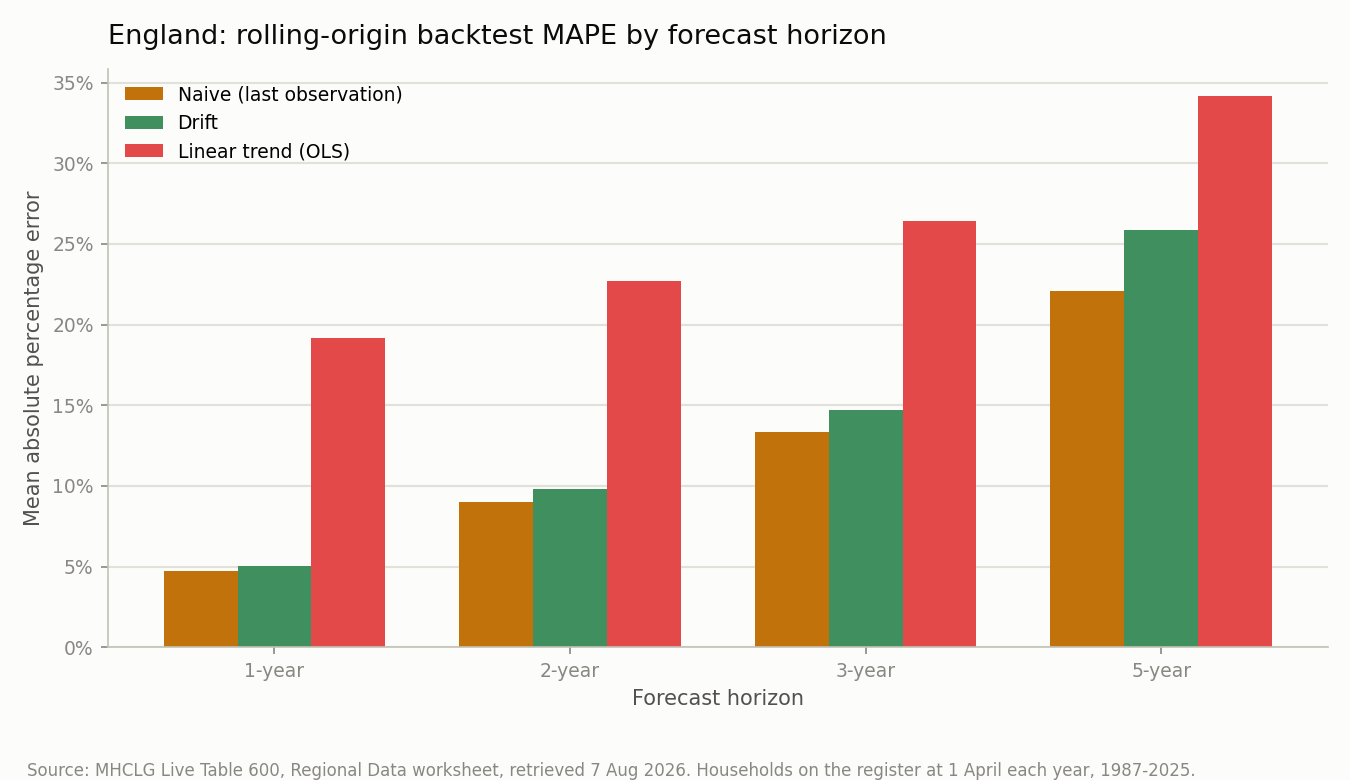
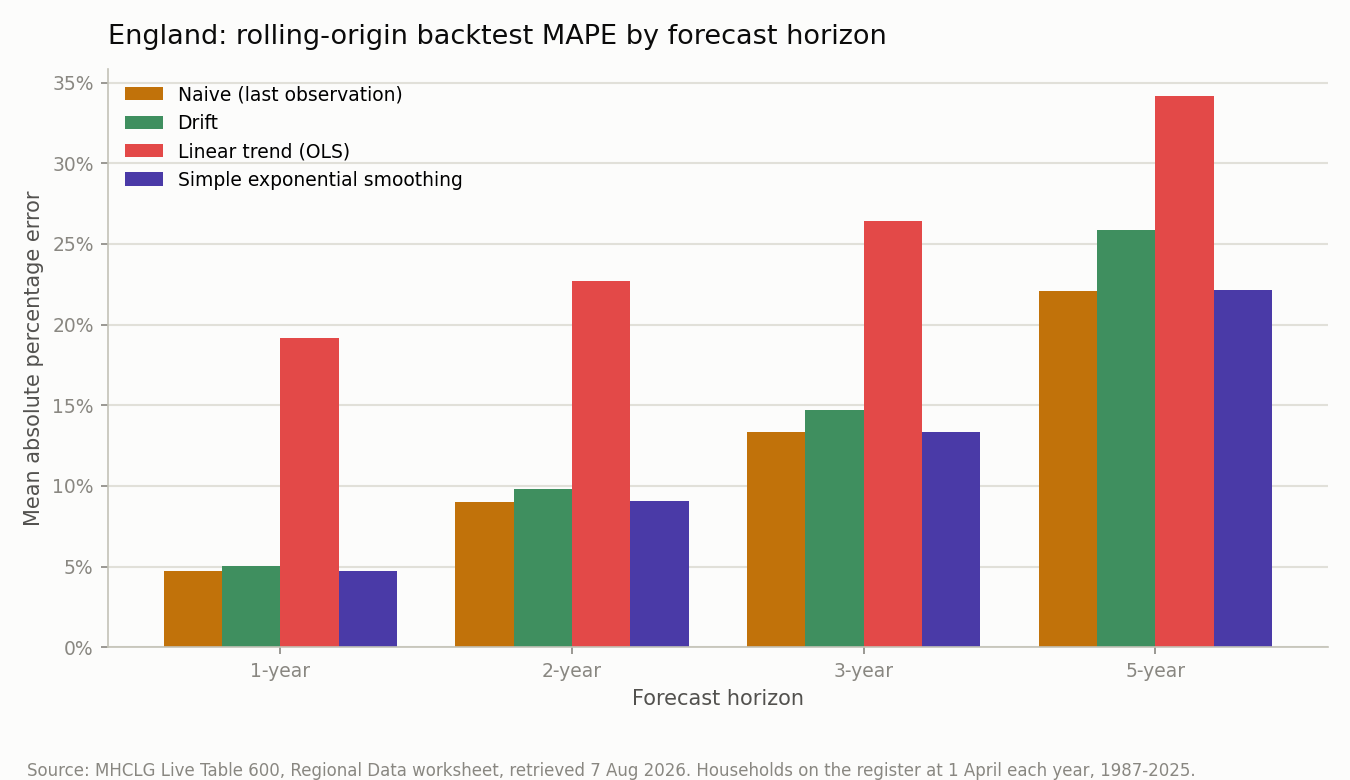
Add simple exponential smoothing as a fourth backtested benchmark
Extends the national backtest harness with a dependency-light SES model
(alpha grid-searched on in-sample SSE, no leakage). SES ties naive for best
1-year MAPE (4.75% vs 4.71%) but its optimal alpha hits the search grid
boundary (0.99) at every origin, meaning it degenerates to near-naive on
this trend-heavy series - documented as a limitation and a pointer toward
trend-aware smoothing (e.g. Holt's method) as the next comparison.

diff --git a/scripts/forecast_national.py b/scripts/forecast_national.py
@@ -2,7 +2,7 @@
 """Week 2 national forecasting & rolling-origin backtesting for MHCLG Live Table 600.
 
 Loads the validated England-total series (Area code E92000001) from
-data/processed/regional_waiting_lists_long.csv, fits three dependency-light
+data/processed/regional_waiting_lists_long.csv, fits four dependency-light
 benchmark forecasting models, evaluates them with leakage-free rolling-origin
 ("walk-forward") backtesting at 1/2/3/5-year horizons, writes result CSVs to
 outputs/, and produces two comparison charts under outputs/figures/.
@@ -13,6 +13,9 @@ Models (all pure Python, no third-party forecasting libraries):
                  (Hyndman & Athanasopoulos's drift method).
   - linear_trend: ordinary-least-squares straight line fit to the training
                  window, extrapolated h years beyond the origin.
+  - ses        : simple exponential smoothing; forecast is flat at the
+                 fitted level, with alpha grid-searched (0.01-0.99) to
+                 minimise in-sample SSE on the training window only.
 
 Backtesting design (see docs/national_forecast_methodology.md for the full
 rationale):
@@ -74,16 +77,19 @@ BLUE = "#2a78d6"     # actual series / categorical slot 1
 ORANGE = "#c1720a"   # naive / categorical slot 2
 GREEN = "#3f8f5f"    # drift / categorical slot 3
 RED = "#e34948"      # linear_trend / diverging pole
+VIOLET = "#4a3aa7"   # ses / categorical slot 7
 
 MODEL_COLORS = {
     "naive": ORANGE,
     "drift": GREEN,
     "linear_trend": RED,
+    "ses": VIOLET,
 }
 MODEL_LABELS = {
     "naive": "Naive (last observation)",
     "drift": "Drift",
     "linear_trend": "Linear trend (OLS)",
+    "ses": "Simple exponential smoothing",
 }
 
 
@@ -147,10 +153,47 @@ def linear_trend_forecast(train_years, train_values, horizons):
     return {h: intercept + slope * (origin_year + h) for h in horizons}
 
 
+def ses_level(train_values, alpha):
+    """Run simple exponential smoothing over train_values; return the final level."""
+    level = train_values[0]
+    for y in train_values[1:]:
+        level = alpha * y + (1 - alpha) * level
+    return level
+
+
+def ses_in_sample_sse(train_values, alpha):
+    """One-step-ahead in-sample SSE for a given alpha (training data only)."""
+    level = train_values[0]
+    sse = 0.0
+    for y in train_values[1:]:
+        sse += (y - level) ** 2
+        level = alpha * y + (1 - alpha) * level
+    return sse
+
+
+def ses_forecast(train_years, train_values, horizons):
+    """Simple exponential smoothing; forecast is flat at the fitted level (no trend term).
+
+    alpha is chosen by grid search (0.01-0.99, step 0.01) minimising one-step-ahead
+    in-sample SSE on the training window only - no future/test data is used, so this
+    selection step does not introduce leakage.
+    """
+    best_alpha, best_sse = 0.5, float("inf")
+    for i in range(1, 100):
+        alpha = i / 100
+        sse = ses_in_sample_sse(train_values, alpha)
+        if sse < best_sse:
+            best_sse = sse
+            best_alpha = alpha
+    level = ses_level(train_values, best_alpha)
+    return {h: level for h in horizons}
+
+
 MODELS = {
     "naive": naive_forecast,
     "drift": drift_forecast,
     "linear_trend": linear_trend_forecast,
+    "ses": ses_forecast,
 }
 
 
@@ -329,15 +372,17 @@ def make_mape_by_horizon_chart(summary):
     style_axes(ax)
 
     model_names = list(MODELS)
+    n_models = len(model_names)
     x = list(range(len(HORIZONS)))
-    width = 0.25
+    width = 0.8 / n_models
+    center = (n_models - 1) / 2
 
     for i, model_name in enumerate(model_names):
         mapes = []
         for h in HORIZONS:
             match = [s for s in summary if s["model"] == model_name and s["horizon_years"] == h]
             mapes.append(match[0]["mape_pct"] if match else 0)
-        offsets = [xi + (i - 1) * width for xi in x]
+        offsets = [xi + (i - center) * width for xi in x]
         ax.bar(offsets, mapes, width=width, color=MODEL_COLORS[model_name], label=MODEL_LABELS[model_name], zorder=2)
 
     ax.set_xticks(x)

diff --git a/docs/national_forecast_methodology.md b/docs/national_forecast_methodology.md
@@ -9,7 +9,7 @@
 
 **Outputs:**
 - `outputs/model_results.csv` — MAE / RMSE / MAPE / mean-error bias per model per horizon (the headline results table).
-- `outputs/backtest_predictions.csv` — every individual backtest forecast (327 rows: model x origin x horizon), for transparency and re-analysis.
+- `outputs/backtest_predictions.csv` — every individual backtest forecast (436 rows: model x origin x horizon), for transparency and re-analysis.
 - `outputs/national_forecast_2026_2030.csv` — illustrative 2026-2030 forecast from each model fit on the full 1987-2025 series (not itself backtested — see Limitations).
 - `outputs/figures/backtest_one_step_ahead.png` — actual series vs. each model's 1-year-ahead rolling-origin forecast.
 - `outputs/figures/backtest_mape_by_horizon.png` — MAPE by model, grouped by horizon.
@@ -18,15 +18,16 @@
 
 ### 1.1 Models
 
-Three dependency-light benchmarks, all pure Python (no forecasting libraries):
+Four dependency-light benchmarks, all pure Python (no forecasting libraries):
 
 | Model | Definition |
 | --- | --- |
 | `naive` | Forecast = last observed value, held flat for every horizon. |
 | `drift` | Forecast = last value + h x average historical slope, where the slope is `(last value - first value) / (n - 1)` over the training window (Hyndman & Athanasopoulos's drift method). |
 | `linear_trend` | Ordinary-least-squares straight line fit to `households_on_register` against calendar year over the training window, extrapolated h years past the origin. |
+| `ses` | Simple exponential smoothing: forecast is flat at the fitted level (no trend term). The smoothing parameter alpha is chosen per origin by a grid search (0.01-0.99, step 0.01) minimising one-step-ahead in-sample SSE on the training window only — no test/future data is used in this selection, so it does not introduce leakage. |
 
-These were chosen because the task scope required dependency-light benchmarks before any additional package could be requested; all three are standard textbook baselines that any more sophisticated model (ARIMA, exponential smoothing, etc.) should be expected to beat before being adopted.
+`naive`, `drift`, and `linear_trend` were the three benchmarks required before any additional package could be requested (session scope). `ses` was added afterwards as a fourth benchmark, still with no third-party dependency, following on from this note's original recommendation to test a statistical smoothing method against the same backtest harness before considering a package-dependent model (ARIMA, Holt-Winters, etc.).
 
 ### 1.2 Rolling-origin backtesting design
 
@@ -54,36 +55,41 @@ From `outputs/model_results.csv`:
 | naive | 1y | 29 | 64,900 | 94,773 | 4.71% | -9,598 |
 | drift | 1y | 29 | 68,236 | 98,010 | 5.03% | -9,187 |
 | linear_trend | 1y | 29 | 259,259 | 303,462 | 19.16% | +933 |
+| ses | 1y | 29 | 65,415 | 95,417 | 4.75% | -9,683 |
 | naive | 2y | 28 | 125,174 | 176,067 | 9.03% | -20,975 |
 | drift | 2y | 28 | 133,089 | 187,093 | 9.82% | -20,202 |
 | linear_trend | 2y | 28 | 309,472 | 357,324 | 22.71% | -10,452 |
+| ses | 2y | 28 | 125,607 | 176,609 | 9.06% | -21,046 |
 | naive | 3y | 27 | 183,588 | 247,374 | 13.32% | -31,658 |
 | drift | 3y | 27 | 197,251 | 269,958 | 14.71% | -30,450 |
 | linear_trend | 3y | 27 | 362,839 | 412,748 | 26.41% | -23,251 |
+| ses | 3y | 27 | 184,108 | 247,833 | 13.36% | -31,705 |
 | naive | 5y | 25 | 306,435 | 371,023 | 22.10% | -47,200 |
 | drift | 5y | 25 | 352,355 | 427,036 | 25.89% | -43,989 |
 | linear_trend | 5y | 25 | 477,815 | 524,069 | 34.16% | -53,558 |
+| ses | 5y | 25 | 306,809 | 371,382 | 22.12% | -47,220 |
 
 **Headline findings:**
 
-1. **Naive beats drift beats linear trend, at every single horizon.** This holds on MAE, RMSE and MAPE without exception. The margin between naive and drift is small (naive's MAPE is 0.3-3.8 percentage points lower); the margin between either of those and linear trend is large (linear trend's MAPE is 3-4x naive's at every horizon).
-2. **The linear-trend model is a poor fit for this series and should not be used as-is.** England's waiting-list count is not a monotonic trend — it traces two broad cycles (fall to a 1998 trough, rise to a 2012 peak, fall to a ~2018 trough, renewed rise to 2025; see `docs/initial_eda_findings.md`). A straight line fit to an expanding window systematically lags each turning point, which is visible directly in `outputs/figures/backtest_one_step_ahead.png` — the red linear-trend line is still climbing years after the actual series has turned down, and vice versa.
-3. **Naive and drift are close because the series' average historical drift is close to flat.** Over the full 1987-2025 window the endpoints are similar (1,289,492 to 1,340,527, +4.0%), so the drift model's slope term is small and it behaves similarly to a flat carry-forward; this would not necessarily hold if evaluated from a different pair of endpoints.
-4. **All models degrade sharply as horizon lengthens**, as expected: naive's MAPE rises from 4.7% (1-year) to 22.1% (5-year). This is a real property of the series' volatility (year-on-year swings of up to +16.1%/-18.8% are documented in `docs/initial_eda_findings.md`), not an artefact of the backtest design.
-5. **All three models are negatively biased (under-forecast) at every horizon except linear-trend's near-zero 1-year bias**, consistent with the series' strong renewed growth since 2020 outpacing what a model trained mostly on earlier, flatter or falling periods would expect.
+1. **Naive and SES are essentially tied for best model, both clearly ahead of drift, and all three well ahead of linear trend, at every single horizon.** This holds on MAE, RMSE and MAPE without exception. Naive edges out SES by only 0.02-0.04 MAPE percentage points at every horizon; the gap to drift is larger (0.3-3.8 points), and the gap to linear trend is large throughout (3-4x naive's MAPE at every horizon).
+2. **SES converges to an alpha of 0.99 — the edge of the search grid — at every single one of the 30 backtest origins.** This means the in-sample-SSE-optimal smoothing parameter is pushed as high as the grid allows, so SES's fitted level tracks almost the entire weight onto the most recent observation, which is why its forecasts and errors are nearly indistinguishable from naive's (visible in `outputs/figures/backtest_one_step_ahead.png`, where the violet SES line sits almost exactly on top of the orange naive line throughout). This is a real property of the series, not a bug: because the series exhibits strong persistence with large trend-driven swings rather than noise around a stable level, there is no interior alpha that smooths away meaningful noise without also lagging genuine level shifts, so the optimiser keeps pushing toward alpha=1 (pure naive). A plain SES with no trend term is not well suited to this series; a trend-aware variant (e.g. Holt's linear method) would be a more informative next comparison but was out of scope for this dependency-light pass.
+3. **The linear-trend model is a poor fit for this series and should not be used as-is.** England's waiting-list count is not a monotonic trend — it traces two broad cycles (fall to a 1998 trough, rise to a 2012 peak, fall to a ~2018 trough, renewed rise to 2025; see `docs/initial_eda_findings.md`). A straight line fit to an expanding window systematically lags each turning point, which is visible directly in `outputs/figures/backtest_one_step_ahead.png` — the red linear-trend line is still climbing years after the actual series has turned down, and vice versa.
+4. **Naive and drift are close because the series' average historical drift is close to flat.** Over the full 1987-2025 window the endpoints are similar (1,289,492 to 1,340,527, +4.0%), so the drift model's slope term is small and it behaves similarly to a flat carry-forward; this would not necessarily hold if evaluated from a different pair of endpoints.
+5. **All models degrade sharply as horizon lengthens**, as expected: naive's MAPE rises from 4.7% (1-year) to 22.1% (5-year). This is a real property of the series' volatility (year-on-year swings of up to +16.1%/-18.8% are documented in `docs/initial_eda_findings.md`), not an artefact of the backtest design.
+6. **All four models are negatively biased (under-forecast) at every horizon except linear-trend's near-zero 1-year bias**, consistent with the series' strong renewed growth since 2020 outpacing what a model trained mostly on earlier, flatter or falling periods would expect.
 
 See `outputs/figures/backtest_one_step_ahead.png` for the visual comparison and `outputs/figures/backtest_mape_by_horizon.png` for the MAPE-by-horizon summary.
 
 ## 3. Illustrative 2026-2030 forecast
 
-`outputs/national_forecast_2026_2030.csv` fits each model on the **full** 1987-2025 series (not backtested) and extrapolates. This is included as a direct, natural output of "create a national forecasting script," not as a validated prediction — given naive/drift's ~5% 1-year and ~22-26% 5-year MAPE in backtesting, and linear-trend's much larger errors, any of these forecasts should be treated as a wide-uncertainty benchmark rather than a point estimate to plan against. In particular, linear-trend's 2026-2030 path (rising from ~1.41m to ~1.43m) should be read with the caveat in Finding 2 above.
+`outputs/national_forecast_2026_2030.csv` fits each model on the **full** 1987-2025 series (not backtested) and extrapolates. This is included as a direct, natural output of "create a national forecasting script," not as a validated prediction — given naive/SES's ~5% 1-year and ~22% 5-year MAPE in backtesting, and drift's and linear-trend's larger errors, any of these forecasts should be treated as a wide-uncertainty benchmark rather than a point estimate to plan against. In particular, linear-trend's 2026-2030 path (rising from ~1.41m to ~1.43m) should be read with the caveat in Finding 3 above, and SES's flat ~1,340,423 forecast (essentially identical to naive's flat 1,340,527) should be read with the alpha=0.99 boundary-solution caveat in Finding 2.
 
 ## 4. Limitations
 
-- **Three benchmarks only, no statistical or ML models.** Per the session's dependency-light scope, no seasonal, ARIMA, exponential-smoothing, or regression-with-covariates model was fitted. These benchmarks exist to set a floor that any more complex model should be expected to beat before being adopted; that comparison has not yet been made.
+- **Four benchmarks only, no ARIMA, Holt-Winters, or ML models.** Per the session's dependency-light scope, no trend-aware exponential smoothing, seasonal, ARIMA, or regression-with-covariates model was fitted. These benchmarks exist to set a floor that any more complex model should be expected to beat before being adopted; that comparison has not yet been made. Finding 2 specifically suggests a trend-aware smoothing method (Holt's) as the most promising next step, since plain SES cannot separate "recent level" from "ongoing trend" and this series has a strong trend component.
 - **Single-series, national-level only.** This backtest evaluates the England total only. It does not extend to the nine regions or to local authorities (which have their own boundary-change and missing-data complications documented in `docs/initial_feasibility_note.md`), and results here should not be assumed to transfer to those series.
 - **Small number of independent 5-year-horizon origins.** 25 origins sounds reasonable, but consecutive origins share almost all of their training data and many overlapping target years, so the backtest is not 25 independent trials — treat the horizon-level MAE/RMSE/MAPE as indicative of relative model performance, not as precise, independent-sample confidence intervals.
-- **No exogenous drivers.** All three models use only the England total's own history. None accounts for policy changes, register "cleanse" events, or economic conditions that `docs/initial_eda_findings.md` and `docs/initial_feasibility_note.md` note can move the reported count for administrative as well as demand-driven reasons. A model unaware of an upcoming cleanse (or its absence) cannot anticipate the resulting swing.
+- **No exogenous drivers.** All four models use only the England total's own history. None accounts for policy changes, register "cleanse" events, or economic conditions that `docs/initial_eda_findings.md` and `docs/initial_feasibility_note.md` note can move the reported count for administrative as well as demand-driven reasons. A model unaware of an upcoming cleanse (or its absence) cannot anticipate the resulting swing.
 - **Backtest window starts in 1996, not 1987.** The `MIN_TRAIN_YEARS = 10` choice means the first nine years of the series (1987-1995) are used only as training data for later origins and never appear as a forecast target — the backtest says nothing about forecast accuracy in that period.
 - **2026-2030 forecast is unvalidated.** As noted in §3, the forward forecast is a direct extrapolation, not a value taken from or checked against the backtest; it is provided for illustration only.
 - **2029 forecast (h=4) has no backtested error rate.** The forward forecast produces every year 2026-2030 (h=1..5), but the backtest only evaluates h∈{1,2,3,5} — h=4 was skipped as a horizon choice (§1.2), so the 2029 row in `national_forecast_2026_2030.csv` isn't backed by an h=4 MAE/RMSE/MAPE the way the other four years are.
